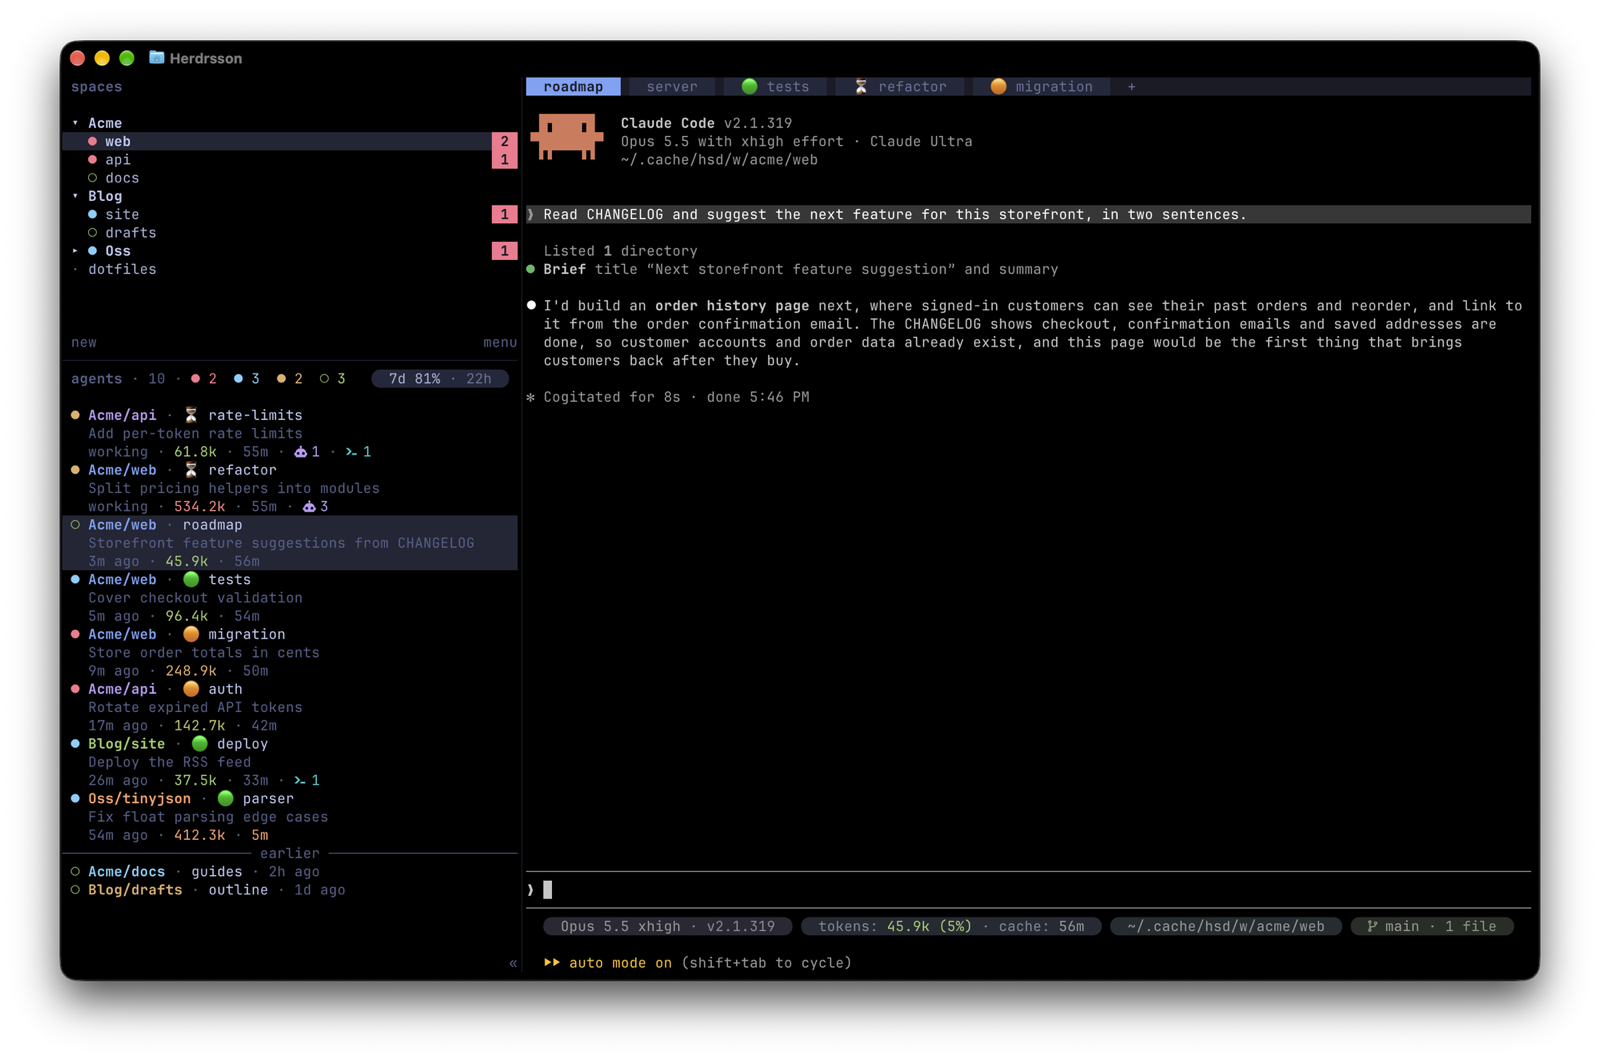
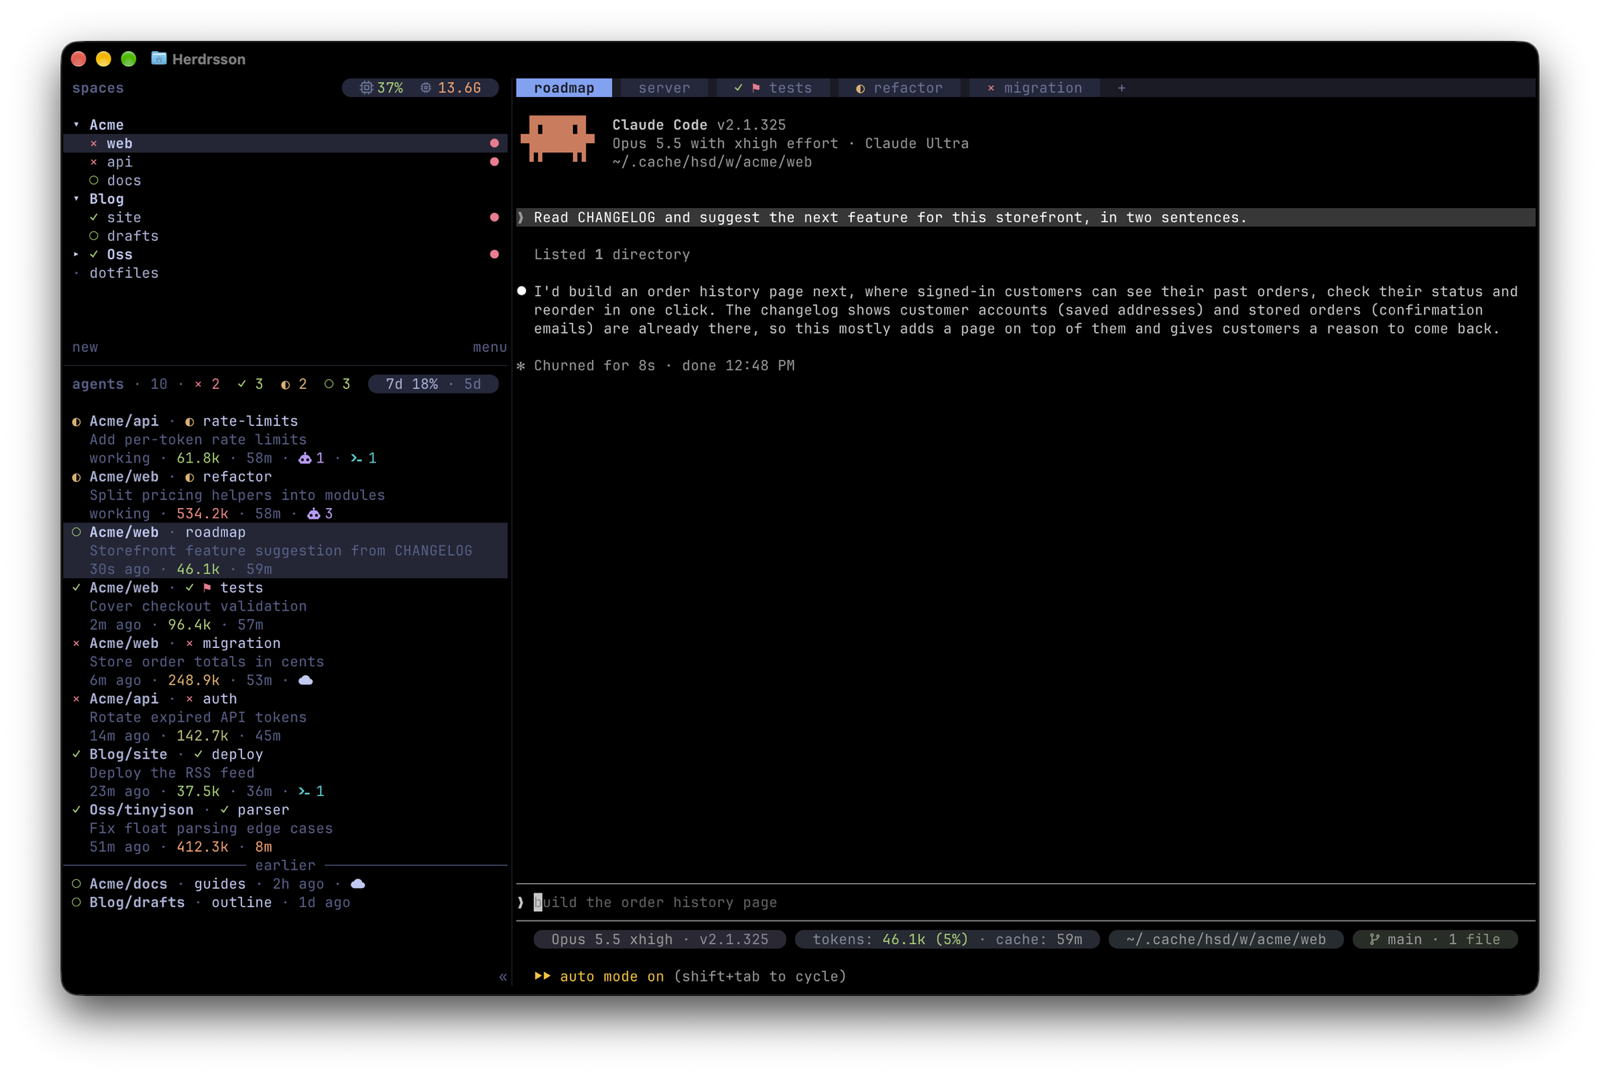
docs: new screenshots with status symbols, flags, system usage and the usage chart

diff --git a/FORK.md b/FORK.md
@@ -25,11 +25,13 @@ Only the window knows about groups. The server, the API and the saved session ke
 and their own order, so nothing else changes: stock Herdr just shows `Web/blog` as the
 space's name. If Herdr ever gets groups of its own, this fork will drop these and use them.
 
-![Herdrsson with its spaces in the groups Acme, Blog and a folded Oss, red counts of waiting agents, the agents counted by status and Claude's weekly usage in the agents panel's title, and the agents panel listed by last activity, each agent on three lines with the time since then, its context's size, its prompt cache's time left and, for three of them, a robot icon with the number of subagents at work and a prompt icon with the number of background shells, the two idle for hours on one line each under an earlier line, next to a real Claude whose status line shows the same size and time left as its row](assets/fork-screenshot.png)
+![Herdrsson with its spaces in the groups Acme, Blog and a folded Oss, red dots for waiting agents and the Mac's CPU and memory use in the spaces header, status marks before the tab names and a red flag on the tests tab, the agents counted by status and Claude's weekly usage in the agents panel's title, and the agents panel listed by last activity, each agent on three lines with the time since then, its context's size, its prompt cache's time left and, for three of them, a robot icon with the number of subagents at work and a prompt icon with the number of background shells, a cloud on the two that Remote Control connects, the two idle for hours on one line each under an earlier line, next to a real Claude whose status line shows the same size and time left as its row](assets/fork-screenshot.png)
 
-The groups `Acme` and `Blog` are open and `Oss` is folded, its header counting the agent waiting
-in one of its spaces. The 🟢 ⏳ 🟠 in front of the tab names came from the Tab Status plugin,
-which this fork has since replaced with coloured status dots (see [tabs](#tabs)). Three
+The groups `Acme` and `Blog` are open and `Oss` is folded, its header's red dot marking the agent
+waiting in one of its spaces (`unseen_indicator = "dot"`; a red count by default). The pill at the
+right of the spaces header is the Mac's CPU and memory use (see [system usage](#system-usage)).
+In front of the tab names is each tab's agent status, here as symbols (✓ done, ◐ working,
+× blocked), and the red ⚑ flags the tests tab to come back to (see [tabs](#tabs)). Three
 separate Herdr plugins add most of the rest:
 [Agent Recency](https://github.com/bagonyi/herdr-agent-recency) lists the agents panel by each
 agent's last activity, which this fork shows as `3m ago`,
@@ -37,7 +39,8 @@ agent's last activity, which this fork shows as `3m ago`,
 context size, green to red, and its prompt cache's time left, orange in the last 10 minutes, and
 [Claude Subagents](https://github.com/bagonyi/herdr-claude-subagents) the robot with how many
 agents it has at work. The prompt icon with its background shells comes from this fork, which
-reads them from Claude's footer. Agents idle for over 2 hours sit on one line each under
+reads them from Claude's footer, and so does the cloud on the two agents Remote Control connects
+to claude.ai. Agents idle for over 2 hours sit on one line each under
 `earlier`. The tab on screen runs a real Claude, whose row shows the same size and time left as
 its status line, and the pill in the agents panel's title is Claude's weekly usage, from a script
 through `title_command`.
@@ -103,6 +106,8 @@ through `title_command`.
 - A click on it opens a command in a popup hanging from it, as the agents panel's title does, and
   another click closes it. Mine shows CPU and memory in detail, then memory and CPU per pane,
   labelled with space, tab and what runs there, and per app outside Herdr.
+
+  <img src="assets/system-popup.png" width="496" alt="A popup titled System: CPU at 26% with a bar, split into user and system, the load averages and the number of cores; memory, 13.3 of 16 GB, with a bar split into apps, wired and compressed, the memory pressure, normal, the free share and the swap; then CPU and memory per pane in Herdr, each named by its space, tab and what runs in it, and per app outside Herdr, how often it refreshes, and keys to refresh and close">
 
 ### agents
 
@@ -203,9 +208,10 @@ through `title_command`.
   (underlined in a theme of terminal colours). A mistake in `popup` only costs the click, with a
   warning, not the whole config.
 
-  <img src="assets/usage-popup.png" width="464" alt="The agents panel's title pill, 7d 81% · 22h, with a popup titled Claude usage hanging from it: this week's usage at 81% with a bar, when it resets and the pace it's on, the week's Fable limit at 21%, where the usage went, extra usage off, the plan and the time of the figures, and r to refresh, q to close">
+  <img src="assets/usage-popup.png" width="464" alt="A popup titled Claude usage: this week's usage at 18% with a bar, when it resets and the pace it's on, the week's Fable limit at 14%, where the usage went and extra usage off, then a chart of the use by day over the last 16 days, this week's days lighter, against a dashed line at 14% a day, the pace that uses up a week, with views by week, month and hours, today's use so far and the daily average, the plan and the time of the figures, and keys to switch the view, refresh and close">
 
-  This one is Claude's usage, as Claude Code's `/usage` shows it, from a script of mine.
+  This one is Claude's usage, as Claude Code's `/usage` shows it, with a chart of my use by day,
+  week, month or hour under it, from a script of mine.
 - The agents panel's title can leave out the sort label (`grouped`, `priority` or a plugin's
   agent view's, such as `recent`), and with it the click that switches the order
   (`sort_label = false`); a title command's text then ends a column from the edge.

diff --git a/README.md b/README.md
@@ -1,4 +1,4 @@
-![Herdrsson with its spaces in the groups Acme, Blog and a folded Oss, red counts of waiting agents, the agents counted by status and Claude's weekly usage in the agents panel's title, and the agents panel listed by last activity, each agent on three lines with the time since then, its context's size, its prompt cache's time left and, for three of them, a robot icon with the number of subagents at work and a prompt icon with the number of background shells, the two idle for hours on one line each under an earlier line, next to a real Claude whose status line shows the same size and time left as its row](assets/fork-screenshot.png)
+![Herdrsson with its spaces in the groups Acme, Blog and a folded Oss, red dots for waiting agents and the Mac's CPU and memory use in the spaces header, status marks before the tab names and a red flag on the tests tab, the agents counted by status and Claude's weekly usage in the agents panel's title, and the agents panel listed by last activity, each agent on three lines with the time since then, its context's size, its prompt cache's time left and, for three of them, a robot icon with the number of subagents at work and a prompt icon with the number of background shells, a cloud on the two that Remote Control connects, the two idle for hours on one line each under an earlier line, next to a real Claude whose status line shows the same size and time left as its row](assets/fork-screenshot.png)
 
 > [!NOTE]
 > **Herdrsson is a personal, unofficial fork of [herdrdev/herdr](https://github.com/herdrdev/herdr).**
